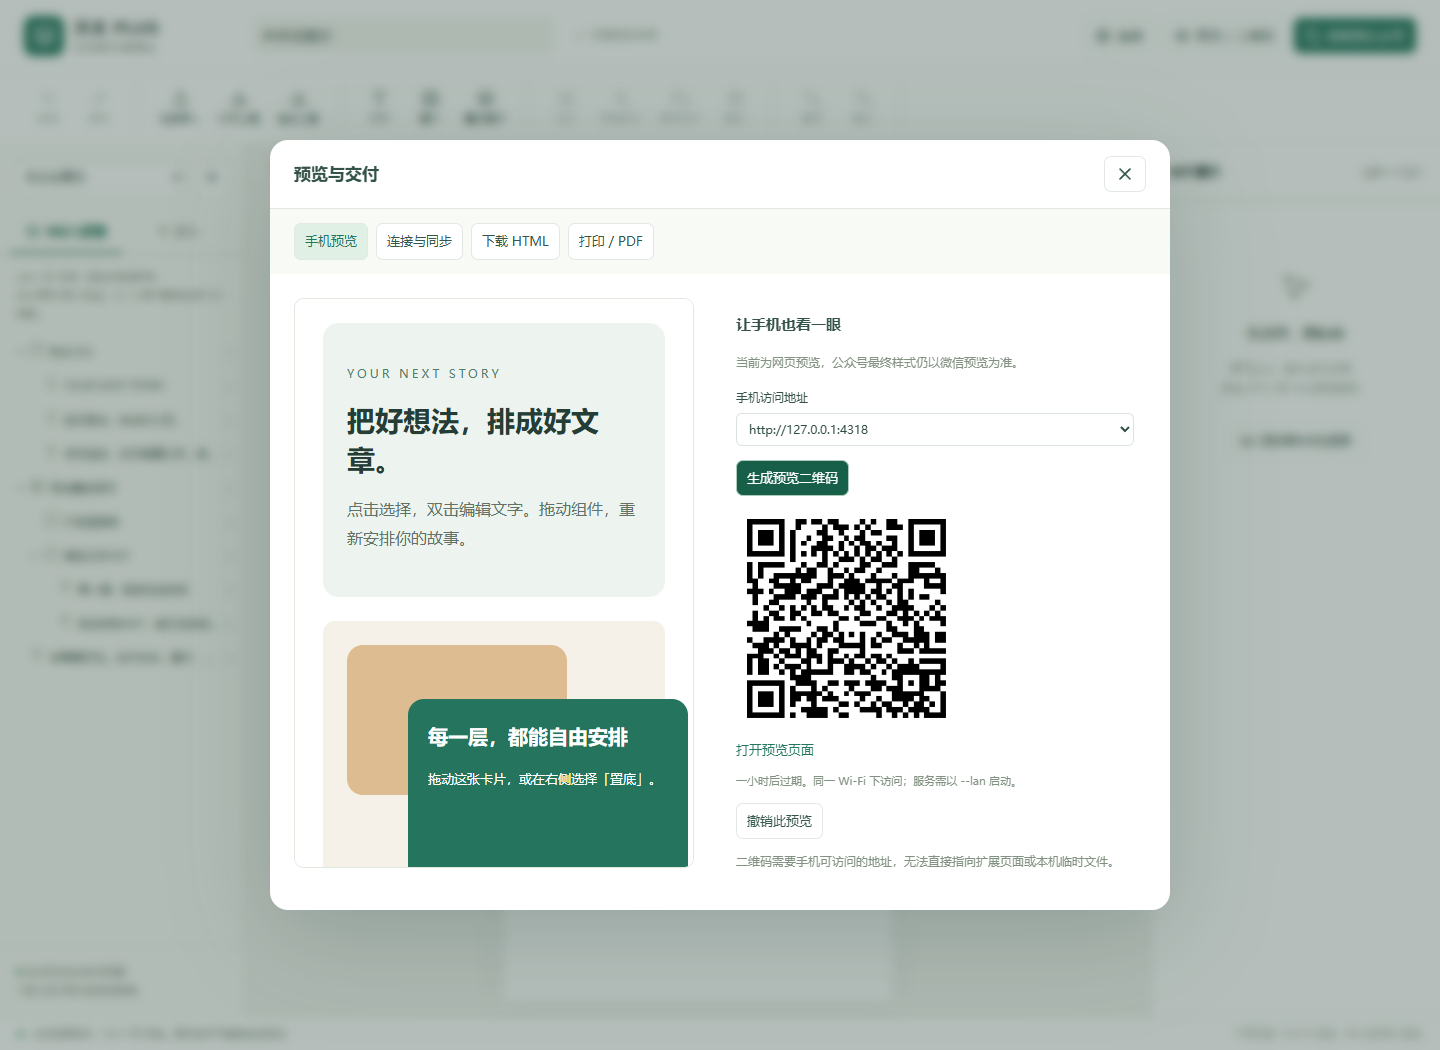
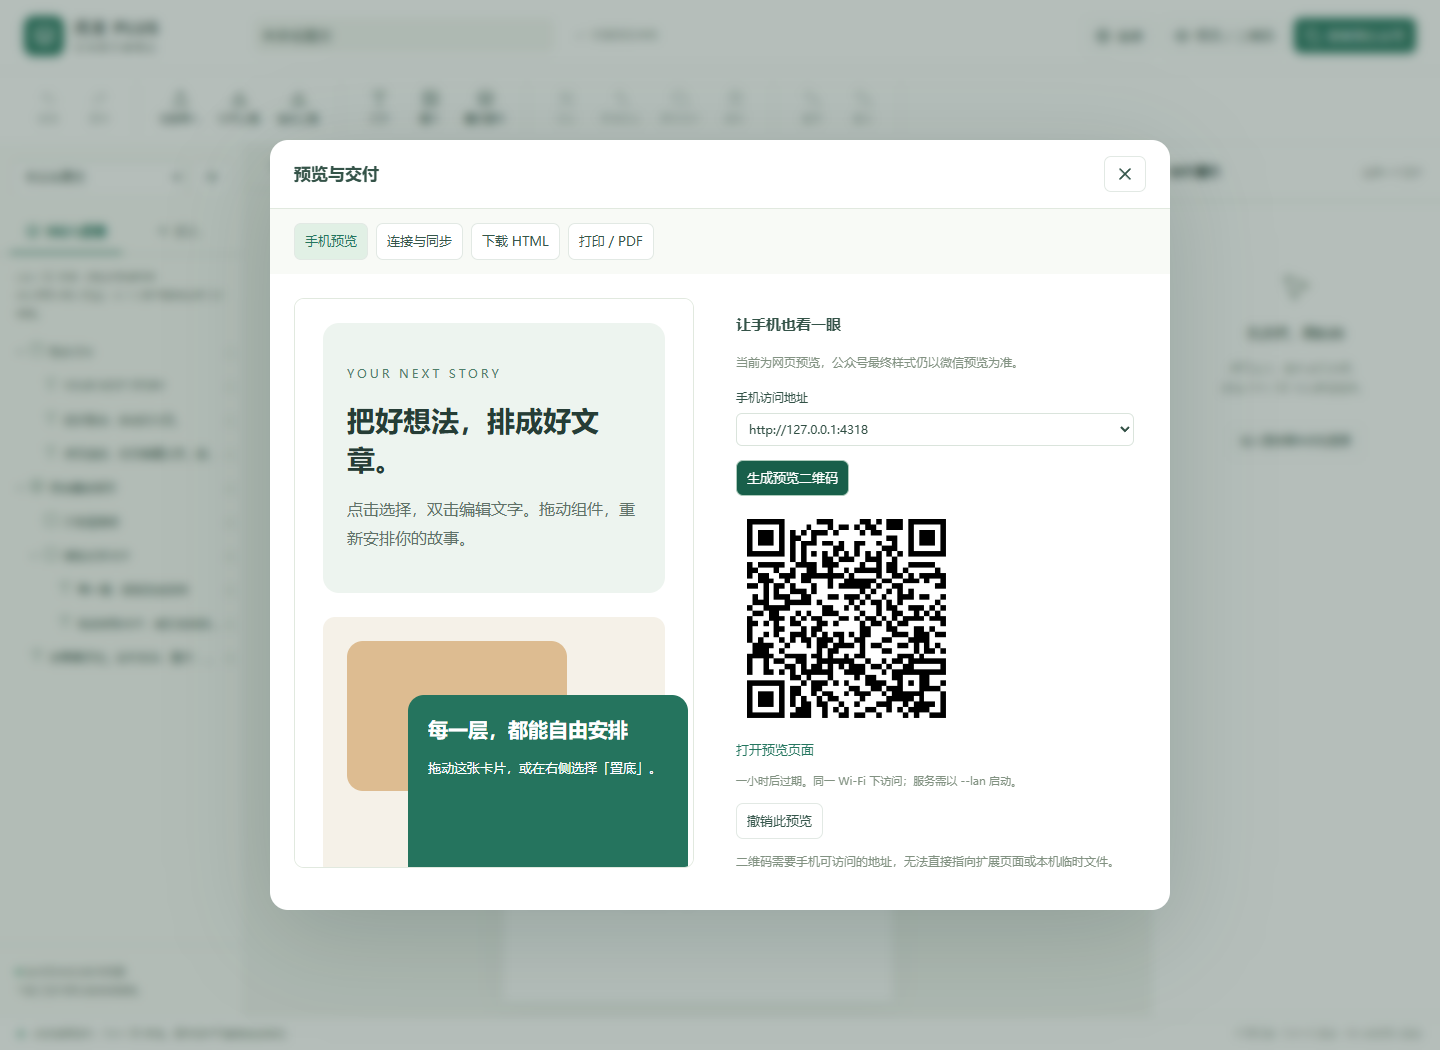
feat: launch local studio with drag, grouping, layers and optional delivery

Changed region(s): [[0.5, 0.4876, 0.6562, 0.701], [0.25, 0.6095, 0.4688, 0.7619]]

diff --git a/src/delivery.ts b/src/delivery.ts
@@ -3,10 +3,31 @@ import { exportArticle } from "./importer";
 export function wrapArticle(html: string, width: number) {
   return `<section style="box-sizing:border-box;width:${width}px;max-width:100%;padding:24px;margin:0 auto;font:16px/1.8 system-ui,sans-serif;color:#263d36;overflow-wrap:anywhere">${html}</section>`;
 }
+export function studioCopy(root: HTMLElement) {
+  const clone = root.cloneNode(true) as HTMLElement;
+  // Preserve the studio's base typography outside the extension stylesheet.
+  for (const el of clone.querySelectorAll<HTMLElement>("p,h1,h2,h3")) {
+    const heading = el.tagName !== "P";
+    const defaults: Record<string, string> = {
+      marginTop: el.tagName === "H3" ? "12px" : heading ? "16px" : "12px",
+      marginBottom: el.tagName === "H3" ? "12px" : heading ? "16px" : "12px",
+    };
+    if (heading) {
+      defaults.fontSize =
+        el.tagName === "H1" ? "28px" : el.tagName === "H2" ? "23px" : "19px";
+      if (el.tagName !== "H3")
+        defaults.lineHeight = el.tagName === "H1" ? "1.4" : "1.5";
+    }
+    for (const [key, value] of Object.entries(defaults))
+      if (!(el.style as unknown as Record<string, string>)[key])
+        (el.style as unknown as Record<string, string>)[key] = value;
+  }
+  return clone;
+}
 // The editable project keeps its layers. Only the outgoing copy is flattened.
 export async function deliveryContent(root: HTMLElement, width: number) {
   const snapshot = root.innerHTML;
-  const clone = root.cloneNode(true) as HTMLElement;
+  const clone = studioCopy(root);
   const originals = Array.from(root.querySelectorAll<HTMLElement>("*"));
   const copies = Array.from(clone.querySelectorAll<HTMLElement>("*"));
   const composites = originals.filter(

diff --git a/src/Studio.tsx b/src/Studio.tsx
@@ -56,7 +56,7 @@ import { exportArticle } from "./importer";
 import { hexColor } from "./appearance";
 import { browser } from "wxt/browser";
 import QRCode from "qrcode";
-import { deliveryContent, wrapArticle } from "./delivery";
+import { deliveryContent, wrapArticle, studioCopy } from "./delivery";
 import "./studio.css";
 import { RichTextDialog } from "./RichTextDialog";
 
@@ -474,7 +474,10 @@ export function Studio() {
   }, [engine]);
   function articleHtml() {
     if (!engine || !project) return "";
-    return wrapArticle(exportArticle(engine.root).html, project.width);
+    return wrapArticle(
+      exportArticle(studioCopy(engine.root)).html,
+      project.width,
+    );
   }
   const pageHtml = () =>
     `<!doctype html><html lang="zh-CN"><meta charset="utf-8"><meta name="viewport" content="width=device-width,initial-scale=1"><title>图文预览</title><body style="margin:0;background:white">${articleHtml()}</body></html>`;

diff --git a/src/studio-engine.ts b/src/studio-engine.ts
@@ -174,6 +174,34 @@ export class StudioEngine extends EditorAdapter {
   }
   style(ids: string[], values: Record<string, string>) {
     const nodes = this.nodes(ids, false);
+    const lengths = new Set([
+      "fontSize",
+      "letterSpacing",
+      "textIndent",
+      "padding",
+      "margin",
+      "borderRadius",
+      "borderWidth",
+      "width",
+      "height",
+      "gap",
+    ]);
+    values = Object.fromEntries(
+      Object.entries(values).map(([key, value]) => [
+        key,
+        lengths.has(key) &&
+        value
+          .trim()
+          .split(/\s+/)
+          .every((n) => /^-?\d+(?:\.\d+)?$/.test(n))
+          ? value
+              .trim()
+              .split(/\s+/)
+              .map((n) => `${n}px`)
+              .join(" ")
+          : value,
+      ]),
+    );
     const allowed = [
       "color",
       "backgroundColor",

diff --git a/tests/studio.test.ts b/tests/studio.test.ts
@@ -77,6 +77,11 @@ it("复制清除重复DOM ID，删除、插入可整体撤销", () => {
 it("文字、字体、颜色、布局样式不接受CSS执行或远程URL注入", () => {
   e.style([id("#a")], { fontWeight: "700", fontSize: "20px" });
   expect(root.querySelector<HTMLElement>("#a")!.style.fontWeight).toBe("700");
+  e.style([id("#a")], { width: "200", padding: "12 20" });
+  expect(root.querySelector<HTMLElement>("#a")!.style.width).toBe("200px");
+  expect(root.querySelector<HTMLElement>("#a")!.style.padding).toBe(
+    "12px 20px",
+  );
   expect(() =>
     e.style([id("#a")], { backgroundImage: "url(https://bad.test/a)" }),
   ).toThrow("样式");

diff --git a/docs/USER_GUIDE.md b/docs/USER_GUIDE.md
@@ -49,7 +49,7 @@
 
 1. 左侧点击「绿色文字卡片」，右侧点「置于底层」，它会被沙色背景板遮挡；点「置于顶层」恢复。
 2. 拖动所选组件上方的把手，直接改变位置。右侧 X、Y 可精确输入像素；方向键移动 1 px，Shift+方向键移动 10 px。
-3. 拖动右下角小方块改变宽高，也可在属性中输入尺寸。可使用六向对齐、旋转和透明度。
+3. 拖动右下角小方块改变宽高，也可在属性中输入尺寸。可使用六向对齐、旋转和透明度。尺寸和间距直接填数字会按像素处理，也支持 px、% 等单位。
 4. 文字、普通图片、背景板和组合容器都支持同父层的前后顺序，不局限于图片。
 
 **父子关系**表示组件属于哪个容器，树中的缩进表达它；**前后顺序**表示同父容器中谁遮住谁，用上移一层、下移一层、置顶、置底控制。嵌套子层不能越过父层与外面的组件任意比较；先移动结构或把父组合一并调整。

diff --git a/docs/TEST_REPORT.md b/docs/TEST_REPORT.md
@@ -45,3 +45,5 @@ Windows 本地使用 Node.js 24 与已安装 Edge 的临时独立配置。未读
 ## 旧版原生适配结论
 
 0.3.0 用户截图证实结构树曾混入外壳，绿框落到素材栏。原生控制器返回不等于选区正确，更不等于保存可靠。0.4.0 已移除页面注入，旧版真实适配不列入当前兼容承诺。
+
+补充：浏览器回归确认独立 iframe 预览保留编辑台的基础标题字号。选择框把手在新选区绘制前同步更新，修复切换工程后立即拖动可能沿用旧把手的问题。可选服务 ZIP 已实际解压，以 `npm ci --omit=dev --ignore-scripts` 安装 81 个运行包，并在临时环回端口启动、完成配对状态请求。
